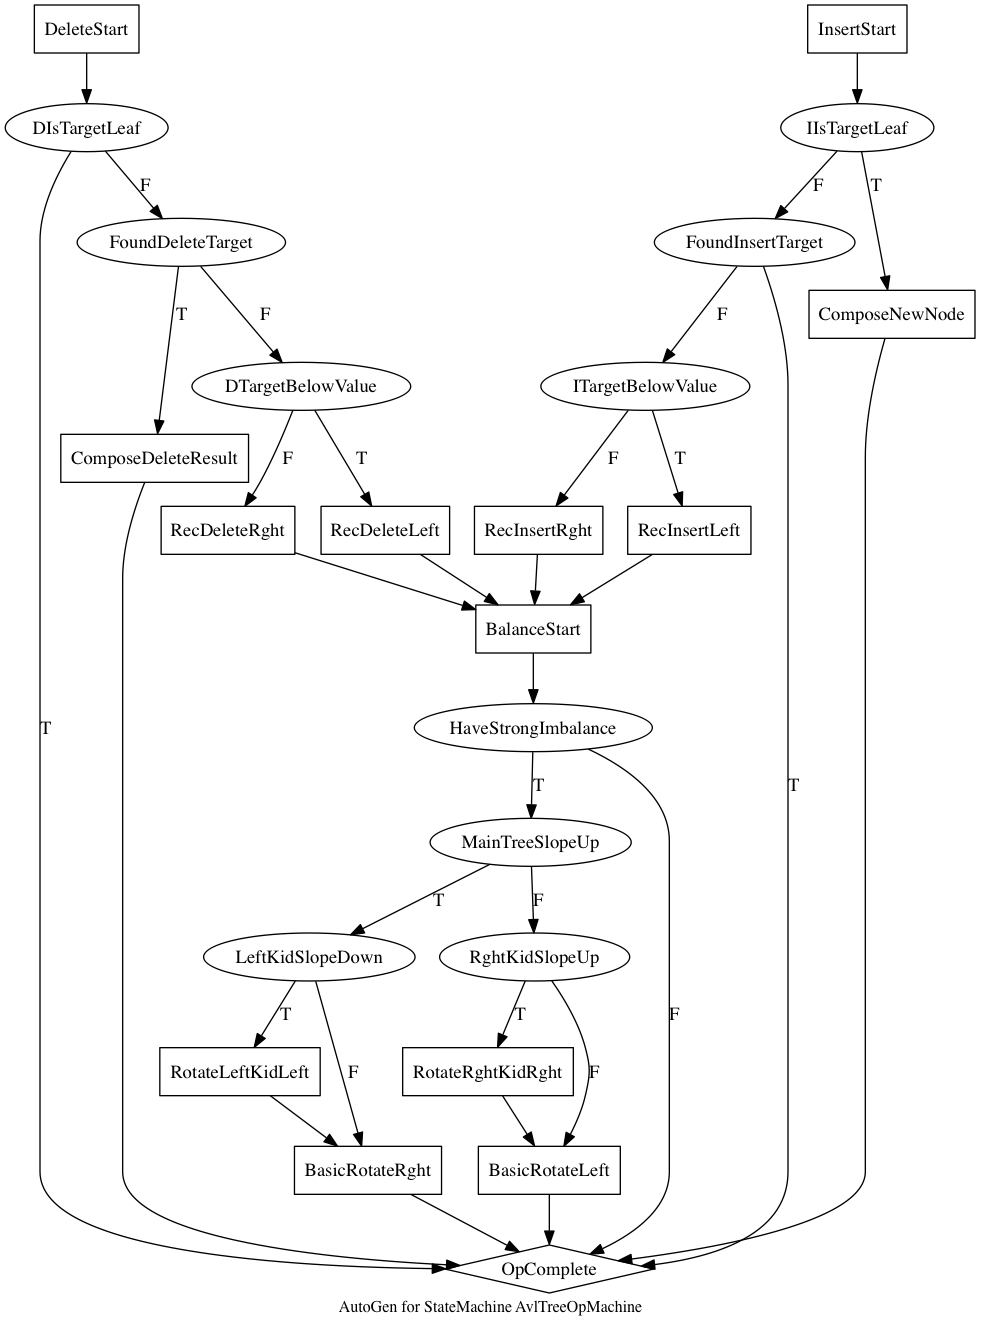
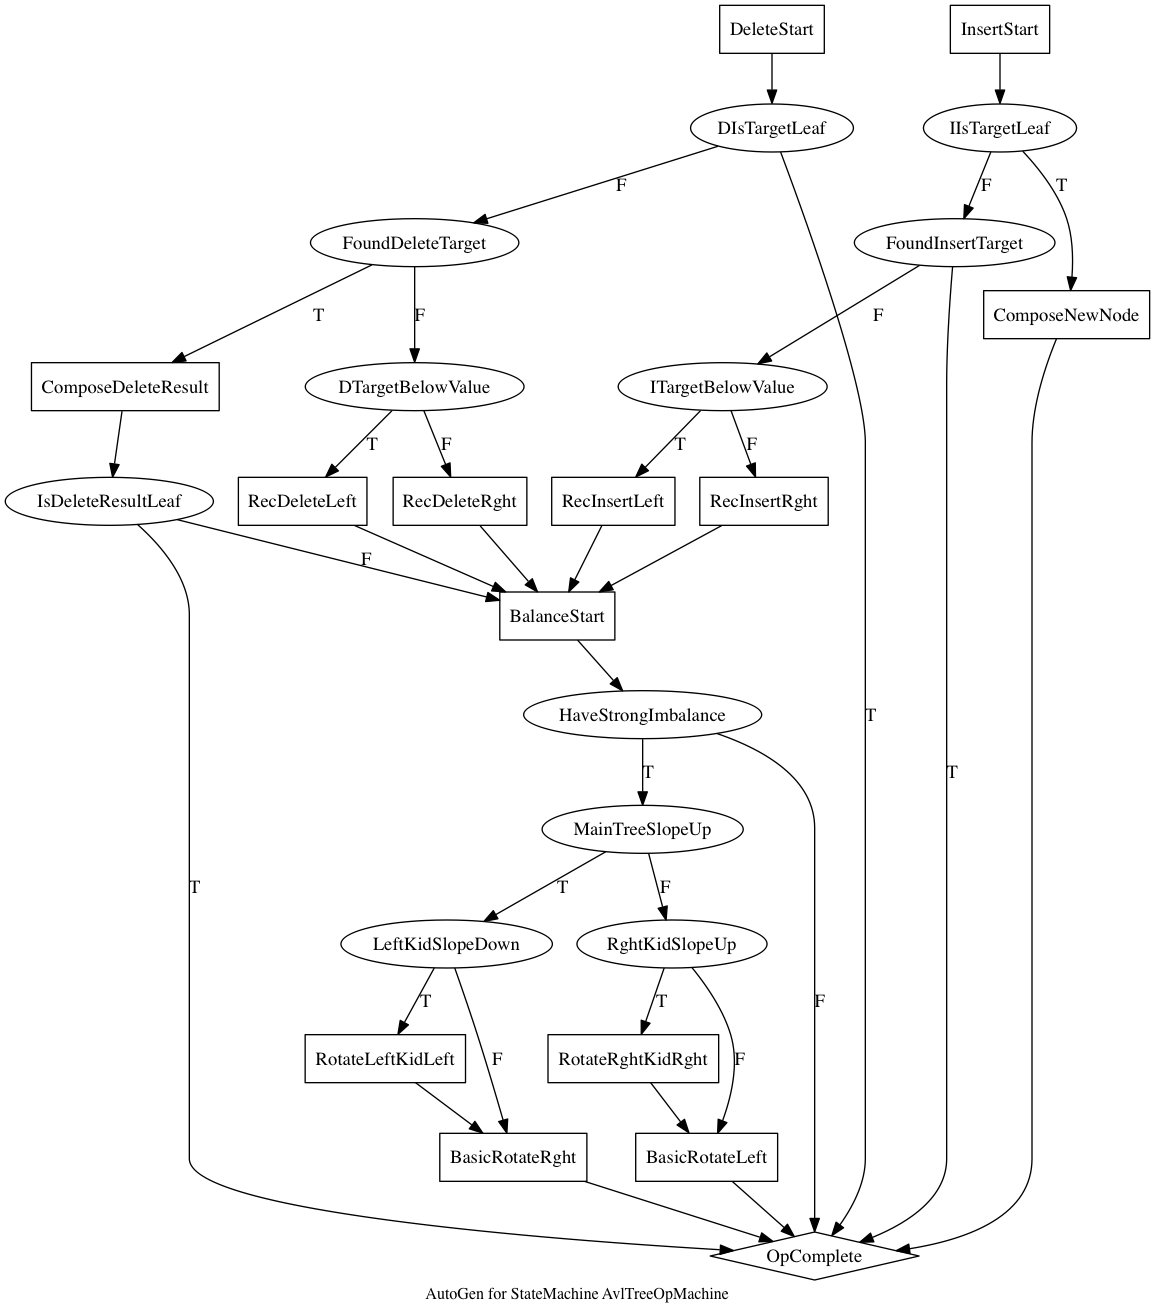
Fixes to AVL tree system

diff --git a/java/flowstate/BinaryTreePrinter.java b/java/flowstate/BinaryTreePrinter.java
@@ -1,0 +1,144 @@
+
+package net.danburfoot.flowstate; 
+
+import java.util.*;
+import java.util.stream.*;
+import java.util.stream.Collectors;
+
+
+import net.danburfoot.shared.Util;
+import net.danburfoot.shared.Util.*;
+import net.danburfoot.shared.FiniteState.*;
+
+public class BinaryTreePrinter<T extends Comparable<T>>
+{
+	private SortedMap<T, Integer> _rankMap = Util.treemap();
+	
+	private SortedMap<T, Integer> _depthMap = Util.treemap();
+	
+	private SortedMap<T, T> _kid2ParMap = Util.treemap();
+	
+	private int _maxDepth = 0;
+
+	public void reportDataList(List<T> datalist)
+	{
+		for(T oneitem : datalist)
+			{ _rankMap.put(oneitem, _rankMap.size()); }
+		
+		// Util.pf("Data list is %s\n", datalist);
+	}
+	
+	public void reportDepth(T oneitem, int depth)
+	{
+		Util.massert(_rankMap.containsKey(oneitem), "Item %s not present in rankmap", oneitem);
+		
+		_depthMap.put(oneitem, depth);
+		
+		_maxDepth = depth > _maxDepth ? depth : _maxDepth;
+	}
+	
+	public void reportLink(T paritem, T kiditem)
+	{
+		Util.putNoDup(_kid2ParMap, kiditem, paritem);
+	}
+	
+	private int getCharWidth()
+	{
+		return _rankMap.size() * 4;		
+	}
+	
+	public void print2Screen()
+	{
+		int charwidth = getCharWidth();
+		
+		// Util.pf("Rank Map is %s\n", _rankMap);
+		// Util.pf("Depth map is %s\n", _depthMap);
+		
+		for(int d : Util.range(_maxDepth+1))
+		{
+			char[] charbuf = new char[charwidth];
+			Arrays.fill(charbuf, ' ');
+			
+			List<T> itemlist = itemListAtDepth(d);
+			
+			for(T oneitem : itemlist)
+			{	
+				double xrank = _rankMap.get(oneitem);
+				xrank /= _rankMap.size();
+				xrank *= charwidth;
+				int xstart = (int) Math.round(xrank);
+				
+				String toprint = oneitem.toString();
+				// Util.pf("Printing %s at position x=%d, depth=%d\n", toprint, xstart, d);
+				
+				
+				for(int i : Util.range(toprint.length()))
+				{
+					if(xstart+1 >= charwidth)
+						{ continue; }
+					
+					charbuf[xstart+i] = toprint.charAt(i);
+				}
+			}
+			
+			StringBuffer sb = new StringBuffer();
+			
+			for(char c : charbuf)
+				{ sb.append(c); }
+			
+			Util.pf("%s\n", sb.toString());
+			
+			printLinkRow(d+1);
+		}
+	}
+	
+	private void printLinkRow(int kiddepth)
+	{
+		int charwidth = getCharWidth();
+		
+		List<T> itemlist = itemListAtDepth(kiddepth);
+
+		char[] charbuf = new char[charwidth];
+		Arrays.fill(charbuf, ' ');			
+		
+		for(T kiditem : itemlist)
+		{
+			T paritem = _kid2ParMap.get(kiditem);
+
+			double midrank = _rankMap.get(kiditem) + _rankMap.get(paritem);
+			midrank /= 2;
+			midrank /= _rankMap.size();
+			midrank *= charwidth;
+			int midstart = (int) Math.round(midrank);			
+		
+			String toprint = _rankMap.get(kiditem) < _rankMap.get(paritem) ? "//" : "\\\\";
+			
+			for(int i : Util.range(toprint.length()))
+			{
+				if(midstart+1 >= charwidth)
+					{ continue; }
+				
+				charbuf[midstart+i] = toprint.charAt(i);
+			}			
+		}
+		
+		StringBuffer sb = new StringBuffer();
+		
+		for(char c : charbuf)
+			{ sb.append(c); }
+		
+		Util.pf("%s\n", sb.toString());		
+		
+		
+	}
+	
+	private List<T> itemListAtDepth(int d)
+	{
+		return _depthMap.entrySet()
+				.stream()
+				.filter(me -> me.getValue() == d)
+				.map(me -> me.getKey())
+				.collect(Collectors.toList());
+	}
+	
+}

diff --git a/java/flowstate/AvlTreeSystem.java b/java/flowstate/AvlTreeSystem.java
@@ -148,10 +148,35 @@ public class AvlTreeSystem
 		{
 			int s = getSlope();
 			
-			Util.massert(-1 <= s && s <= 1, "Slope is out of range: s=%d", s);
+			Util.massert(-1 <= s && s <= 1, "Slope is out of range: s=%d for node with value %d", s, theVal);
 			
 			left.checkInvariant();
 			rght.checkInvariant();
+		}
+		
+		public void print()
+		{
+			BinaryTreePrinter<Integer> btp = new BinaryTreePrinter<Integer>();
+			btp.reportDataList(getList());
+			printSub(btp, null, 0);
+			
+			btp.print2Screen();
+		}
+		
+		private void printSub(BinaryTreePrinter<Integer> btp, Integer parval, int depth)
+		{
+			btp.reportDepth(theVal, depth);
+			btp.reportLink(parval, theVal);
+			
+			if(!left.isLeaf())
+			{
+				((AvlNode) left).printSub(btp, theVal, depth+1);
+			}
+			
+			if(!rght.isLeaf())
+			{
+				((AvlNode) rght).printSub(btp, theVal, depth+1);
+			}
 		}
 	}
 	
@@ -168,7 +193,8 @@ public class AvlTreeSystem
 		DeleteStart,
 		DIsTargetLeaf("T->OC"),
 		FoundDeleteTarget("F->DTBV"),
-		ComposeDeleteResult("OC"),
+		ComposeDeleteResult,
+		IsDeleteResultLeaf("T->OC,F->BS"),
 		
 		DTargetBelowValue("F->RDR"),
 		RecDeleteLeft("BS"),
@@ -229,6 +255,11 @@ public class AvlTreeSystem
 		
 		public boolean iIsTargetLeaf()
 		{
+			return _resultTree.isLeaf();
+		}
+		
+		public boolean isDeleteResultLeaf()
+		{	
 			return _resultTree.isLeaf();
 		}
 			
@@ -426,7 +457,17 @@ public class AvlTreeSystem
 			Boolean result = (doadd ? !_theTree.contains(nextval) : _theTree.contains(nextval));
 			
 			_theTree = (doadd ? insert(_theTree, nextval) : delete(_theTree, nextval));
-						
+			
+			/*
+			Util.pf("-------------\n");
+			Util.pf("Operation is %s for value=%d\n", (doadd ? "ADD" : "DEL"), nextval);
+			
+			if(_theTree instanceof AvlNode)
+			{
+				((AvlNode) _theTree).print();
+			}
+			*/
+			
 			_theTree.checkInvariant();
 			
 			if(_referenceSet != null)
